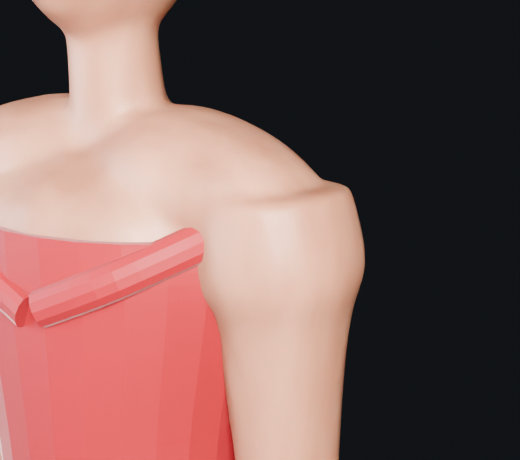
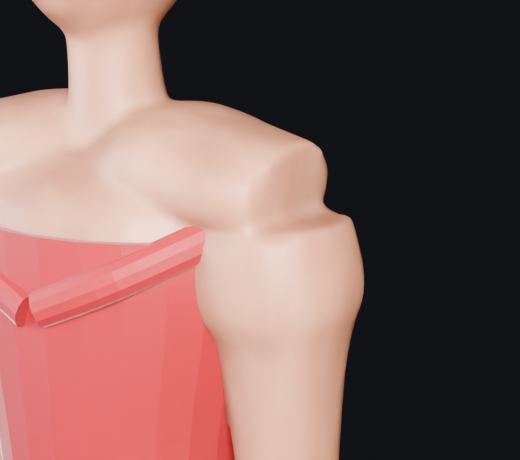
refactor(blender_fight): adjust shoulder and trapezius geometry
Update the anatomical proportions in lib_human.py by adjusting the
trapezius bridge and arm attachment points. This includes refining
the muscle sculpt parameters for the shoulder region and updating
corresponding diagnostic renders.

diff --git a/blender_fight/lib_human.py b/blender_fight/lib_human.py
@@ -449,19 +449,19 @@ def body_parts(spec):
         # trapezius bridge: fuses the neck base into the deltoid, no shoulder shelf
         bridge = [
             (side * 0.020, 0.010, spec["neck_z"] - 0.048),
-            (side * 0.075, 0.004, spec["shoulder_z"] - 0.022),
-            (side * 0.135, 0.000, spec["shoulder_z"] - 0.032),
-            (side * 0.192, 0.000, spec["shoulder_z"] - 0.048),
+            (side * 0.075, 0.004, spec["shoulder_z"] - 0.010),
+            (side * 0.135, 0.000, spec["shoulder_z"] - 0.018),
+            (side * 0.192, 0.000, spec["shoulder_z"] - 0.028),
         ]
         parts.append(tube(bridge,
-                          [spec["neck_rx"] * 1.45, 0.056, 0.050, 0.038],
-                          [0.072, 0.080, 0.074, 0.048],
+                          [spec["neck_rx"] * 1.35, 0.046, 0.044, 0.044],
+                          [0.070, 0.084, 0.080, 0.064],
                           segs=18, sub=6, ref_normal=(0, 0, 1)))
 
         arm = [
-            (side * s * 0.99, 0, spec["shoulder_z"] - 0.030),
-            (side * s * 1.035, 0, spec["shoulder_z"] - 0.095),
-            (side * s * 1.055, 0.002, spec["shoulder_z"] - 0.155),
+            (side * s * 0.99, 0, spec["shoulder_z"] - 0.058),
+            (side * s * 1.035, 0, spec["shoulder_z"] - 0.118),
+            (side * s * 1.055, 0.002, spec["shoulder_z"] - 0.172),
             (side * s * 1.07, 0.004, spec["elbow_z"]),
             (side * s * 1.07, -0.004, spec["elbow_z"] - 0.105),
             (side * s * 1.06, -0.018, spec["wrist_z"]),
@@ -469,10 +469,10 @@ def body_parts(spec):
             (side * s * 1.04, -0.052, spec["wrist_z"] - 0.068),
             (side * s * 1.03, -0.062, spec["wrist_z"] - 0.092),
         ]
-        arx = [0.066, 0.074, spec["upperarm_r"] * 1.04,
+        arx = [0.068, 0.074, spec["upperarm_r"] * 1.04,
                spec["elbow_r"], spec["forearm_r"], spec["wrist_r"], spec["palm_rx"],
                spec["palm_rx"] * 0.96, spec["palm_rx"] * 0.74]
-        ary = [0.066, 0.074, spec["upperarm_r"] * 0.98,
+        ary = [0.068, 0.074, spec["upperarm_r"] * 0.98,
                spec["elbow_r"] * 0.96, spec["forearm_r"] * 0.90, spec["wrist_r"] * 0.88,
                spec["palm_ry"], spec["palm_ry"] * 0.94, spec["palm_ry"] * 0.70]
         parts.append(tube(arm, arx, ary, segs=18, sub=6, ref_normal=(1, 0, 0)))
@@ -610,7 +610,9 @@ def muscle_sculpt(obj, spec, strength=1.0):
             ((sgn * 0.058 * s, -0.100, chest + 0.030), (0.080, 0.055, 0.050), 0.012),
             ((sgn * 0.118 * s, 0.012, chest - 0.065), (0.055, 0.085, 0.110), 0.010),
             ((sgn * 0.055 * s, 0.038, sh - 0.012), (0.055, 0.070, 0.048), 0.009),
-            ((sgn * 0.155 * s, -0.005, sh - 0.032), (0.062, 0.062, 0.072), 0.008),
+            ((sgn * 0.160 * s, -0.010, sh - 0.055), (0.058, 0.060, 0.062), 0.007),
+            ((sgn * 0.130 * s, -0.020, sh - 0.042), (0.062, 0.075, 0.058), 0.011),
+            ((sgn * 0.070 * s, 0.000, sh - 0.006), (0.058, 0.072, 0.048), 0.009),
             ((sgn * 0.192 * s, -0.022, (sh + elb) * 0.5 + 0.03), (0.046, 0.048, 0.090), 0.009),
             ((sgn * 0.196 * s, -0.020, (elb + wri) * 0.5), (0.040, 0.040, 0.075), 0.005),
             ((sgn * (off + 0.010), -0.038, hip - 0.150), (0.070, 0.070, 0.135), 0.011),
